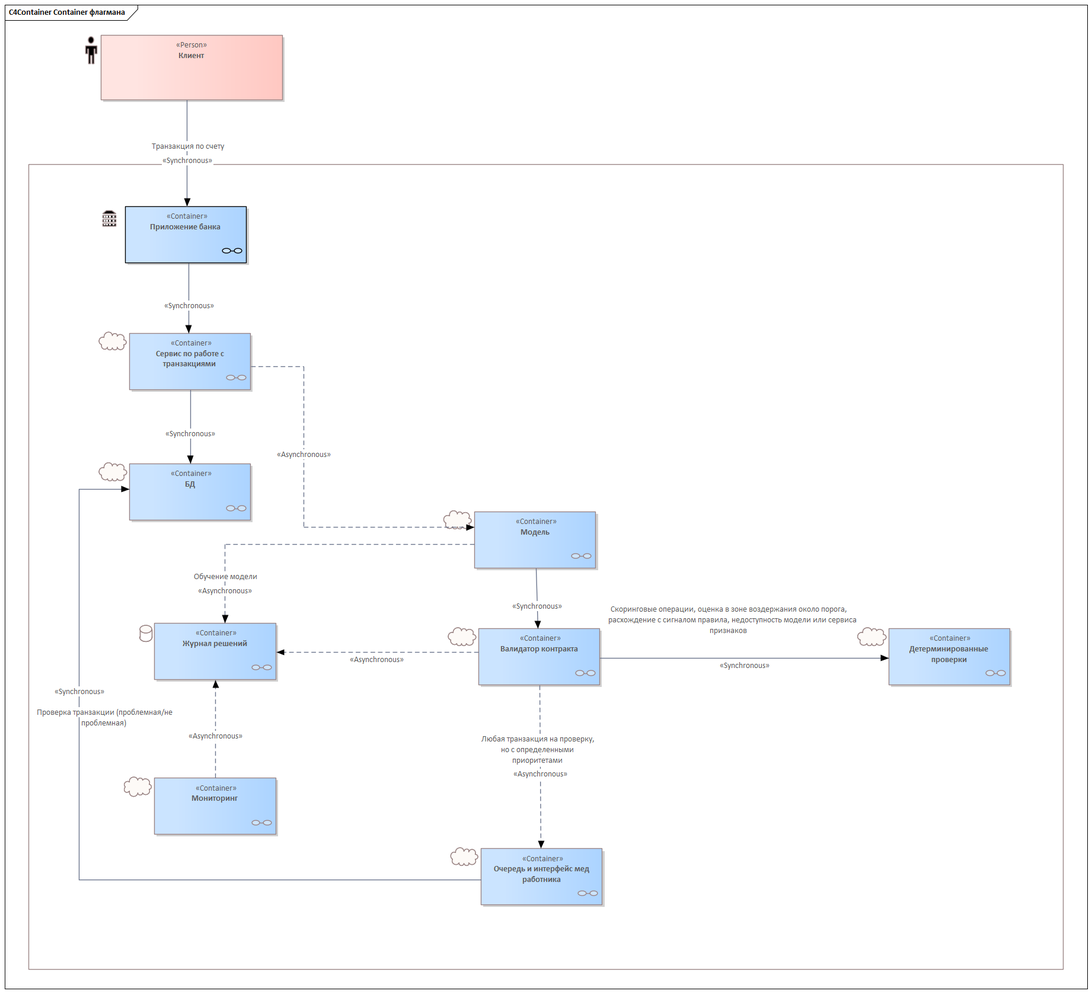
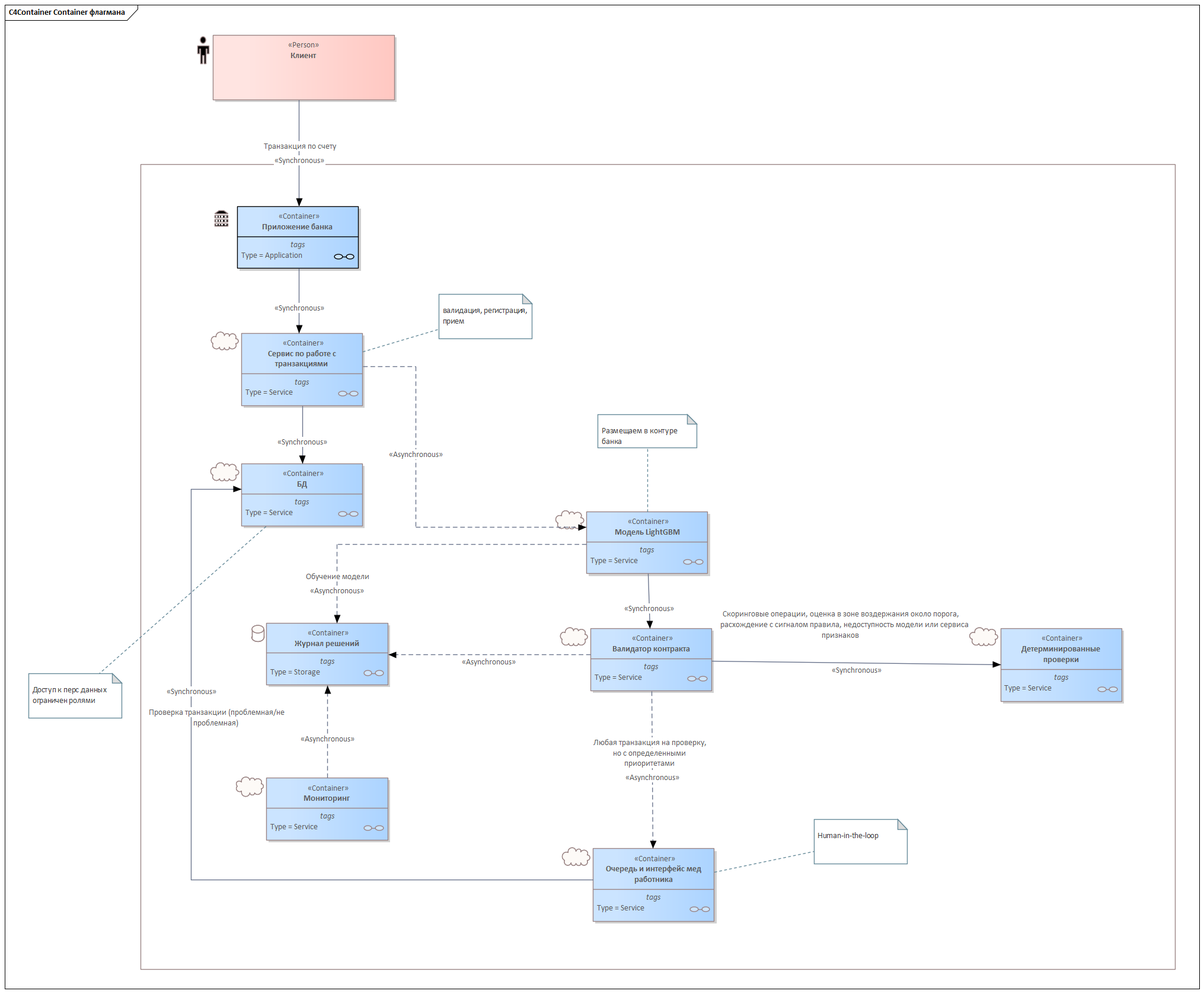
TASK new

diff --git a/Task2/Паспорт инициативы (2-5).md b/Task2/Паспорт инициативы (2-5).md
@@ -3,43 +3,43 @@
 Оценка инициативы 
 
 Постановка
-	Бизнес цель - отмечать подозрительные операции
-	Объект решения - для операции по счету
+	Бизнес цель - отмечать подозрительные операции и предоставлять сотруднику данные о подозрительных транзакциях, но с определенными метками для дальнейшего разбора
+	Объект решения - счет, клиент
 	Входные данные - операции по счетам (транзакции)
-	Результат модели - операции помеченные признаками эскалации от модели
-	Результат для бизнеса - Сотрудник получает сигнал о подозрительных операциях
+	Результат модели - Определить подозрительные операции и предоставить их на разбор сотруднику (т.е расставлять приоритеты операций)
+	Результат для бизнеса - Снизить долю ложноположительных разборов и направить высвобожденную мощность на backlog, priority-кейсы и более глубокое расследование.
 	Дальнейшие действия - На основе результата дается приоритет о том, что данная активность является подозрительной - далее сотрудник банка (либо в автоматическом режиме) сообщается клиенту о подозрительных операциях со счетом
-	Источник правильного ответа - действия клиентов
+	Источник правильного ответа - Правильным ответом считается вердикт специалиста службы финансового мониторинга, зафиксированный в системе управления кейсами
 	Роль правил и человека - Сотрудник в приоритете берет в работу те разборы, которые пришли с меткой о подозрительности транзакции
-	Открытые вопросы - на основании чего вообще выявляются подозрительные операции? нет бизнес требований в данной части (мб на основании частого снятия одной и той же суммы, перевод лицам которые попадают под категорию "мошенники" и т.п)
+	Открытые вопросы - нет
 Качество 
 	Бизнес-метрика - кол-во подозрительно выявленных операций по счетам клиентов
-	Положительный класс - выявляем подозрительные операции (критерии подозрительных операций должен дать бизнес)
-	Метрика под решение - кол-во выявленных подозрительных операций от модели, которые утверждены оператором
-	baseline - сравниваем текущий процесс и работу с помощью модели
-	Проверочная выборка - Случайная контрольная выборка
-	Рабочая точка - сократить ложные срабатывания, сделать приоритеты по очереди и скоратить эскалации. Допустимое изменение recall не ниже baseline
-	Показатели в этой точке - если сама модель будет показывать быстрый результтат в части приоритизации для проверки операций, то уменьшится кол-во эскалаций по результатам
+	Положительный класс - Транзитные операции: доля списаний к зачислениям за 24–72 часа ≥ 95 %, время между зачислением и списанием ≤ 24 часов, отсутствие признаков хозяйственной деятельности. Операции с признаками обналичивания: переводы на счета физлиц/ИП, снятие наличных в короткий срок после зачисления, цепочки переводов на несколько карт с последующим снятием. Дробление платежей: серия операций одному или разным получателям, суммы отдельных платежей близки к порогу обязательного контроля, но ниже него, общая сумма серии превышает порог в несколько раз.
+	Метрика под решение - PR‑AUC (Precision‑Recall Area Under Curve) — главная метрика, Recall (полнота) на целевом уровне Precision, Precision (точность) на выбранном пороге, F1‑score как компромиссная метрика, ROC‑AUC — дополнительная метрика, чтобы оценить способность модели разделять классы на всём диапазоне порогов.
+	baseline - rule-based детектор на фиксированных правилах 115‑ФЗ, реализованный в SQL поверх исторических транзакций.
+	Проверочная выборка -   Основная выборка формируется out-of-time из потока операций, помеченных пороговыми правилами, за период [2 месяца]: не менее 50 000 операций, включая не менее 400 подтверждённых положительных кейсов на каждый тип схем (транзит, обналичивание, дробление; для дефицитных типов — доукомплектование из смежных периодов). Дополнительно в выборку включается контрольная стратифицированная выборка из 5 000 операций, не помеченных правилами, — для оценки дополнительного покрытия относительно baseline
+	Рабочая точка -  считается порог скоринга P*, при котором месячный объём кейсов на ручную проверку не превышает 12 000 (ёмкость службы с запасом 20 %), Recall по подтверждённым схемам — не менее 85 %, доля кейсов, направляемых на углублённое расследование, — не менее 8 % (против 4 % в текущем процессе). Риск-скоринг формирует порядок очереди разбора. Целевая рабочая точка на горизонте 12 месяцев — сокращение объёма ручной проверки до 5 000–7 000 операций в месяц при сохранении Recall ≥ 85 % и росте конверсии в расследование до ≥ 10 %
+	Показатели в этой точке - объём кейсов на ручную проверку не превышает 12 000 в месяц (утилизация ёмкости службы ≤ 110 %); Recall по подтверждённым схемам — не менее 85 % (раздельно по типам схем — не менее 80 %); Precision на уровне подтверждённых схем — не менее 2 %; конверсия кейсов в углублённое расследование — не менее 8 % против 4 % в текущем процессе; прирост Recall относительно rule-based baseline — не менее 10 п. п.
 	Цена ошибок - ложное срабатывание заставляет лишний раз оператора посмореть транзакцию и связаться с клиентом, пропуск - снижении репутации банка, обман клиента мошенниками, потеря финансов
-	Guardrails - ухудшится показатели определения операций и увеличение нагрузки на операторов
+	Guardrails -  Вводятся следующие ограничения работы модели: 1. модель не принимает решений об отказе в проведении операций и не закрывает кейсы автоматически; auto-close допускается не ранее чем через 6 месяцев эксплуатации и только для кейсов ниже порога P** при подтверждённой стабильности метрик; 2. rule-based контур сохраняется параллельно, его срабатывания гарантированно попадают в очередь разбора; 3. при снижении Recall на золотом наборе ниже 75 % либо при превышении объёма очереди над ёмкостью службы два месяца подряд применяются автоматические корректирующие меры (пересмотр порога, при недостижимости целевых значений — откат на rule-based контур); 4. модель работает только на полном наборе обязательных признаков, при их недоступности кейс формируется по правилам.
 Данные 
-	Решение - бизнес критерии отбора подозрительных операций
+	Решение - журнал транзакций из АБС: атрибуты операций (дата/время, суммы, контрагенты, тип операции, назначение платежа) по счетам с срабатываниями пороговых правил за период не менее 12 месяцев.
 	Объект и гранулярность - транзакции по счетам которые лежат в БД
 	Источник и владелец - Данные из БД банка, доступ дает владелец продукта
-	Источник правильного ответа - Правильный ответ берется на основании модели и бизнес правил и далее финальное решение идет за оператором
-	Доступность признаков в проде - не известно все зависит на основании каких правил и закономерностей будет работать модель
-	Разметка - бизнес должен сделать разметку, т.е определеить по правила - например "Если раз в час списывается определеная сумма денег - помечать операция как подозрительная"
-	Смещение отбора - метки получили данные операции, т.к были отобраны моделью на основании правил и закономерностей - остальные не попали под критерии отбора
-	Репрезентативность - нет ответа на данный вопрос
-	Объем - 35 000 операций
-	Качество - По факту формат транзакций для всех одинаковый
+	Источник правильного ответа - Правильным ответом считается вердикт специалиста службы финансового мониторинга, зафиксированный в системе управления кейсами
+	Доступность признаков в проде - "Доступно напрямую", Доступно после агрегации/рассчета, частично достпно/требует доработки, Недоступно в текущей архитектуре
+	Разметка - Основаня метка: 0 - легитимная операция, 1 - подозрительная, Признаки для каждого. Сначала разметируем небольшой набор данных вручную, чтобы отладить гайдлайн: какие признаки брать в приоритет, как разрешать неоднозначности. В реальных данных подозрительных операций обычно меньше чем нормальный. При формировании датасета для обучении это неоходимо учитывать, чтобы модель не игнорировала редкие, но важные схемы
+	Смещение отбора - метки получили данные операции
+	Репрезентативность -  Проверочная выборка формируется так, чтобы отражать реальный продовый поток, а не историческую очередь разбора
+	Объем - Для обучения и оценки модели используются следующие объёмы данных: 1. журнал транзакций по счетам с срабатываниями пороговых правил за 12 месяцев — порядка 420 тыс. помеченных операций (35 тыс. в месяц) и полный поток операций по соответствующим счетам (оценка: [N] млн записей, [X] ГБ); 2. размеченные вердикты первичного разбора службы ФМ — порядка 120 тыс. кейсов за 12 месяцев (10 тыс. в месяц), используются как основа обучающей выборки; 3. результаты углублённых расследований — порядка 4 800 кейсов за 12 месяцев, из них подтверждённых схем — порядка [50–150]; используются как золотой стандарт для оценки Recall и holdout; 4. проверочная выборка — не менее 50 тыс. операций (out-of-time), включая не менее 400 положительных кейсов на каждый тип схем; для дефицитных типов допускается доукомплектование из смежных периодов; 5. контрольная выборка слепой зоны правил — 5 тыс. операций с ручной разметкой; 6. при недостатке положительных кейсов предусмотрена доборная разметка мелких сумм в объёме 5–10 тыс. операций (бюджет: [X] часов)
+	Качество - Перед использованием данные проходят аудит полноты и достоверности. Ключевые поля: дата/время и сумма операции — заполнены на 100 % (обязательные поля АБС); реквизиты получателя (ИНН/БИК/карта) — ≥ 95 %; назначение платежа — ≥ [факт] % (при фактическом уровне ниже 85 % фиксировано как ограничение: текстовые признаки считаются по доступным значениям, для кейсов с отсутствующим назначением предусмотрен fallback на пороговые правила). Согласованность источников: транзакции сопоставляются с вердиктами службы ФМ по идентификатору кейса, корректность сопоставления ≥ 99 %. 
 	Право использовать - правовое хранение счетов и трнзакций есть и ограничение по передачи и хранению тоже - идти к юристам
-	Вердикт - не хватает данных о выявлении подозрительных операций, критерии успешности, необходимо получить доступ. Вердикт - GAP с планом
+	Вердикт - Go но только как усиление текщего процесса, а не его замены
 Эксперимент
-	Где именно теряем - нет ответа на данный вопрос
-	Гипотеза причины - аналогично нет ответа на данный вопрос
-	Рычаг - признак
-	Дешевый различающий эксперимент - разметить небольшую выборку операций по счетам, добавить часть примеров в обучение и проверить, улучшилось ли качество на проверочной части.
+	Где именно теряем -  в текущем процессе потери локализованы в четырёх точках. 1. Покрытие: из ~35 тыс. операций, ежемесячно помечаемых пороговыми правилами, разбирается порядка 10 тыс. (29 %); ~25 тыс. кейсов в месяц не проходят проверку — в этом объёме содержатся неотправленные положительные кейсы. 2. Структурная слепая зона: приоритизация очереди по суммам приводит к системному исключению из разбора схем дробления платежей, реализуемых операциями у порога контроля. 3. Эффективность разбора: конверсия очереди в углублённое расследование — 4 % (400 кейсов из 10 тыс.), до формально подтверждённого вывода доходят единицы; порядка 2 000 часов в месяц тратится на разбор без результата, при этом полный поток правил не покрыт. 4. Латентность: средний срок ожидания кейса в очереди превышает [N] недель, тогда как средства по транзитным и обналичивающим схемам выводятся в течение часов — разберённые с опозданием кейсы теряют операционную ценность. Дополнительно фиксируется регуляторный ущерб: пропущенные схемы создают риски в рамках 115-ФЗ, не выражаемые напрямую в денежном эквиваленте. Эксперимент направлен на проверку устранения каждой из точек потерь: покрытие потока при неизменной ёмкости (Recall ≥ 85 %), покрытие дробления (Recall ≥ 80 % по типу), рост конверсии в расследование (с 4 % до ≥ 8 %) и снижение латентности формирования кейса до ≤ 24 часов.
+	Гипотеза причины - 1. отсутствие механизма приоритизации и отсева до ручного разбора — все ~35 тыс. срабатываний правил в месяц поступают в единую очередь, пропускная способность которой ограничена штатом (10 тыс. разборов в месяц); 2. использование суммы операции как единственного критерия приоритизации — гипотеза проверяется анализом корреляции суммовых диапазонов с долей подтверждённых подозрений на исторической разметке; ожидается слабая корреляция, что объясняет систематическую потерю схем дробления в неразбираемом хвосте; 
+	Рычаг - Механизм не изменяет регламент разбора и нагрузку на аналитика — меняется только порядок поступления кейсов, что делает внедрение низкорискованным и обратимым.
+	Дешевый различающий эксперимент - сопоставление подтверждённых схем из расследований с срабатываниями правил — оценка доли схем, не покрытых пороговым контуром; затраты — 2–3 дня; результат определяет соотношение рычагов «приоритизация» и «новые источники кейсов»; 
 	Ожидаемый эффект - улучшение качества проверки
 	Стоимость проверки - и время и люди и деньги
 	Критерии остановки - Модель не стабильна, нет аудита, доступов, отсутствует воспроизводимое объяснение
@@ -54,7 +54,7 @@
 	Результат модели - оцифровался скан документа и загружен в БД с признаком оцифровка - для дальнейшей проверки сотрудником 
 	Результат для бизнеса - оцифровка происходит в автоматическом режиме, а сотрудник просто подтверждает оцифровку
 	Дальнейшие действия - На основе результата сотрудник подтверждает оцифровку документа и завершает процесс
-	Источник правильного ответа - никак, после модели необходима ручная проверка документов
+	Источник правильного ответа -  Эталонными значениями считаются значения ключевых полей документов (ИНН, ФИО, суммы, даты, номера документов, банковские реквизиты и др. — перечень закреплён в гайде разметки), полученные ручным ключевым вводом по регламенту андеррайтинга.
 	Роль правил и человека - правила находят закономерности и парсят скан документа, а человек подтверждает насколько парсинг данного скана был корректным
 	Открытые вопросы - что дальше должно происходить и какова цена ошибки модели и человека
 Качество
@@ -63,7 +63,7 @@
 	Метрика под решение - кол-во загруженных сканов без коректировки пользователем
 	baseline - сравниваем модель с текущим процессом оцифровки пользователем 
 	Проверочная выборка - Проверочная выборка должна быть любой, но отличной от обучающей и собранной на реальных сканов из боевого контура
-	Рабочая точка - если по всем критичным полям было успешна оцифровка - то заявка идет дальше без ручного ввода, иначе валидация на стороне сотрудника. Не могу сам расчитать точку, но интеренет говорит, что порог 0.80
+	Рабочая точка - определяется порогами уверенности модели по полям: значения полей с confidence выше порога P* выпускаются автоматически, критичные поля (ИНН, суммы, номера договоров, реквизиты) — выше порога P**; значения ниже порога либо не прошедшие валидацию направляются на ручной ввод. Валидационный контур (контрольные суммы, сверка с ЕГРЮЛ/ЕГРИП и с электронной анкетой заявки) работает параллельно: прошедшее сверку значение принимается при пониженном пороге, непрошедшее — направляется оператору независимо от уверенности модели. Целевые значения в рабочей точке: точность автоматических значений по полям ≥ 98–99 %; доля тихих ошибок (не перехваченных валидацией и порогами) ≤ 0,5 %; уровень автоматизации — не менее 80 % значений полей и не менее 60 % пакетов документов без ручного вмешательства; корректный статус «нечитаемо» — не менее 95 % нечитаемых фрагментов.
 	Показатели в этой точке - Если модель провела оцифровку, но с не увереностью успешности - то помечает признаком для детального рассмотрения сотрудником
 	Цена ошибок - Каждая ошибка от модели должна быть проверена сотрудинком
 	Guardrails - ухудшится показатели операций, т.е уменьшение качества оцифровки 
@@ -71,7 +71,7 @@
 	Решение - проверка действий модели ползователем - т.е проверка того, что оцифровала модель - и исправления
 	Объект и гранулярность - на уровне БД 
 	Источник и владелец - данные от пользователя, но берутся из БД Банка, доступ дает владелец продукта
-	Источник правильного ответа - эталон появляется, когда действия сотрудника в части исправления не нужны, т.е оцифровка моделью успешное
+	Источник правильного ответа - Эталонные значения полей создаются целенаправленной разметкой сканов: операторы осуществляют ключевой ввод значений по гайду разметки (перечень полей — ИНН, ФИО, суммы, даты, номера документов, реквизиты; правила чтения и категории «нечитаемо» / «поле отсутствует»)
 	Доступность признаков в проде - да, поля будут доуступны из оцифровки моделью, что бы можно было подтвердить успешность операции сотрудником банка
 	Разметка - решение от бизнеса
 	Смещение отбора - метки получены все операции для разбора пользователем, т.к видится что кейс с оцифровкой на 100 процентов не может быть успешным и нужно ручное подтверждение пользователем о корректности данных
@@ -95,15 +95,15 @@
 	Бизнес цель - на основании ушедших клиентов научить модель предсказывать какие клиенты собираются уйти
 	Объект решения - клиент
 	Входные данные - причины ухода клиента 
-	Результат модели - опредлены клиенты, котоорые ходят покинуть банк
+	Результат модели - Модель возвращает для каждого активного клиента банка вероятность оттока в течение фиксированного горизонта 90 дней — P(отток) ∈ [0; 1]. Под оттоком понимается перевод клиентом основного финансового потока в другой банк (закрытие счетов, перевод зарплаты, существенное снижение оборотов — критерии закреплены в определении положительного класса)
 	Результат для бизнеса - определены клиенты, которым можно предоставить какие нибудь льготные условия, либо плюшки
 	Дальнейшие действия - попробовать удержать клиентов, которые определены моделью
-	Источник правильного ответа - не уверен, что такой на данном этапе может быть, даже если модель и правильная, то она не дает 100 процентов предсказания по уходу клиентов
+	Источник правильного ответа - подтверждённый отток, т.е перевод клиентом основного финансового потока в другой банк в течение горизонта прогноза. Метки формируются автоматически из наблюдаемых данных банка: 1. факт закрытия счетов или заявления на закрытие; 2. перевод зачисления заработной платы в сторонний банк; 
 	Роль правил и человека - правила находят закономерность в части ухода клиента, далее работа за человеком в части уговорить клиента остаться
 	Открытые вопросы - нет
 Качество 
 	Бизнес-метрика - кол-во клиентов, которые точно хотели уйти - но их остановили от таких манипуляций
-	Положительный класс - ловим клиентов, которые собираются уйти
+	Положительный класс - ловим клиентов, которые собираются уйти (см. источник правильного ответа)
 	Метрика под решение - кол-во ушедших клиентов и кол-во оставленных, благодаря модели
 	baseline - определить бизнесу
 	Проверочная выборка - Проверил бы на слепке БД из боевого контура
@@ -113,24 +113,24 @@
 	Guardrails - ухудшится показатели определения уходящих клиентов
 Данные 
 	Решение - история ушедших клиентов и причины ухода
-	Объект и гранулярность - на уровне БД 
+	Объект и гранулярность - действующий клиент банка с активными счетами или продуктами; признаки агрегируются на уровне клиента по всем его счетам, картам и продуктам
 	Источник и владелец - данные из БД, владелец продукта
-	Источник правильного ответа - эталон появляется, когда найденные клиенты подвержены критериям для ухода из банка
+	Источник правильного ответа - Метки оттока формируются из внутренних систем банка: транзакционное ядро (АБС) — факты закрытия счетов, динамика остатков и оборотов, данные зарплатных проектов; продуктовые системы — закрытия вкладов, расторжения договоров, отказы от перевыпуска карт; CRM и контакт-центр — заявления и негативные обращения (используются для валидации правила)
 	Доступность признаков в проде - да, поля будут известны в момент принятия решения
-	Разметка - решение от бизнеса 
+	Разметка - Метки формируются автоматически по утверждённому правилу оттока: для каждого активного клиента на дату [T] присваивается метка «отток», если в интервале [T; T+90 дней] фиксируется закрытие счетов, перевод зачисления зарплаты в сторонний банк или падение оборотов более чем на [X] % в течение [N] месяцев; иначе — метка «остался»
 	Смещение отбора - Метки получили данные исходя из закономерностей данных по ушедшим клиентам. Остальные данные не попали под критерии отбора
-	Репрезентативность - решение от бизнеса 
+	Репрезентативность - Данные обучения и проверки должны отражать фактическое распределение активной клиентской базы по ключевым разрезам: тип клиента (физлицо / ИП / юрлицо), сегмент обслуживания (массовый / премиум), когорта подключения (возраст клиента в банке), канал открытия (отделение / онлайн / партнёрский), регион, продуктовый портфель.
 	Объем - конктеный объем не определен в текущей задаче
-	Качество - инфомрации о качестве нет
-	Право использовать - не вижу ограничений
+	Качество -  1. разрывы истории активности — выявляются тестом на пропадание операций при сохранении остатков; клиенты с разрывами исключаются из выборки или маркируются флагом неполной истории — иначе разрыв имитирует падение оборотов и искажает и признаки, и метки; 2. артефакты миграций систем — фоновые уровни активности сравниваются до и после миграций АБС/CRM/ДБО; переходные окна нормируются или исключаются из обучения; 3. неравномерная полнота признаков по сегментам — отсутствие данных о зарплатном проекте, 4. корректность данных зарплатных зачислений — верифицируется на выборке, фиксируется доля операций с определённым источником зачисления;
+	Право использовать - перс данные клиентов - обращение к юристам
 	Вердикт - готово
 Эксперимент
-	Где именно теряем - нет ответа на данный вопрос
-	Гипотеза причины - аналогично нет ответа на данный вопрос
+	Где именно теряем - 1. Реактивное обнаружение: основные сигналы оттока (закрытие счетов, перевод зарплаты) фиксируются после принятия клиентом решения — окно проактивного удержания не охвачено; 2. тсутствие связки «риск → действие»: единый регламент для всех сегментов не учитывает различие механизмов удержания (персональный менеджер / кампании / ставки); дорогостоящий канал расходуется на низкорисковых клиентов.
+	Гипотеза причины - 1. за счёт фиксации исходов кампаний и включения их в признаки и мониторинг модели. 2. а счёт сегментации рисков и сопоставления каналов удержания 3. единый регламент удержания без сегментации риска и причин ухода — несоответствие канала удержания типу клиента и причине оттока
 	Рычаг - признак 
-	Дешевый различающий эксперимент - разместить небольшую выборку по данным клиентам на которых работает модель, добавить часть примеров в обучение и проверить улучшилось ли качество или нет
+	Дешевый различающий эксперимент - ретроспективный анализ предвестников оттока — на выборке [200–300] ушедших клиентов строится поведенческий профиль за 6 месяцев до события и определяется доля клиентов со значимыми сдвигами (обороты, частота операций, структура трат, зарплатные зачисления) за 30–60 дней до оттока в сравнении с контрольной группой действующих клиентов; затраты — 3–5 дней аналитика; порог подтверждения — предвестники у ≥ [70] % ушедших; опровержение (отсутствие предвестников) влечёт пересмотр постановки в сторону реактивных механизмов удержания; 
 	Ожидаемый эффект - улучшение качества проверки
 	Стоимость проверки - и вермя и люди
-	Критерии остановки - необходимо учитывать бизнес 
+	Критерии остановки - неработоспособность модели
 	
 	
